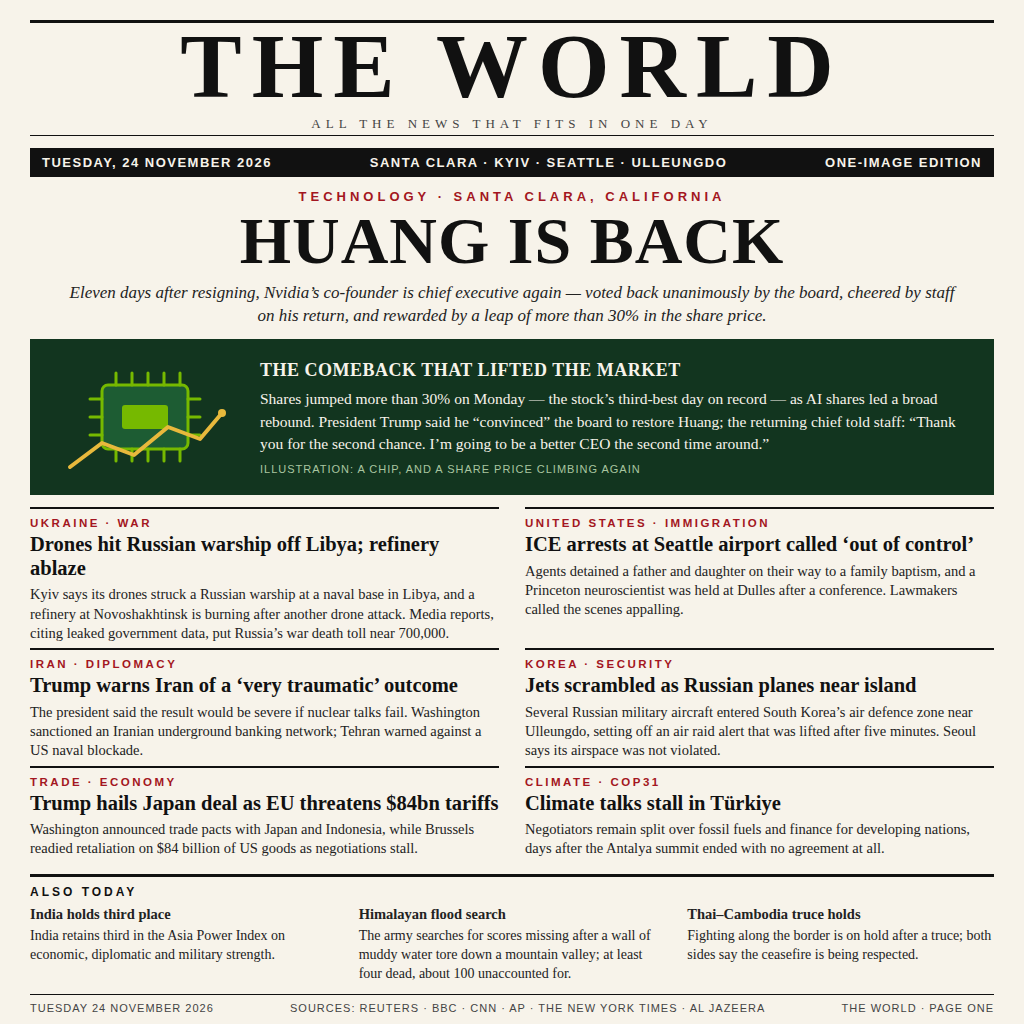
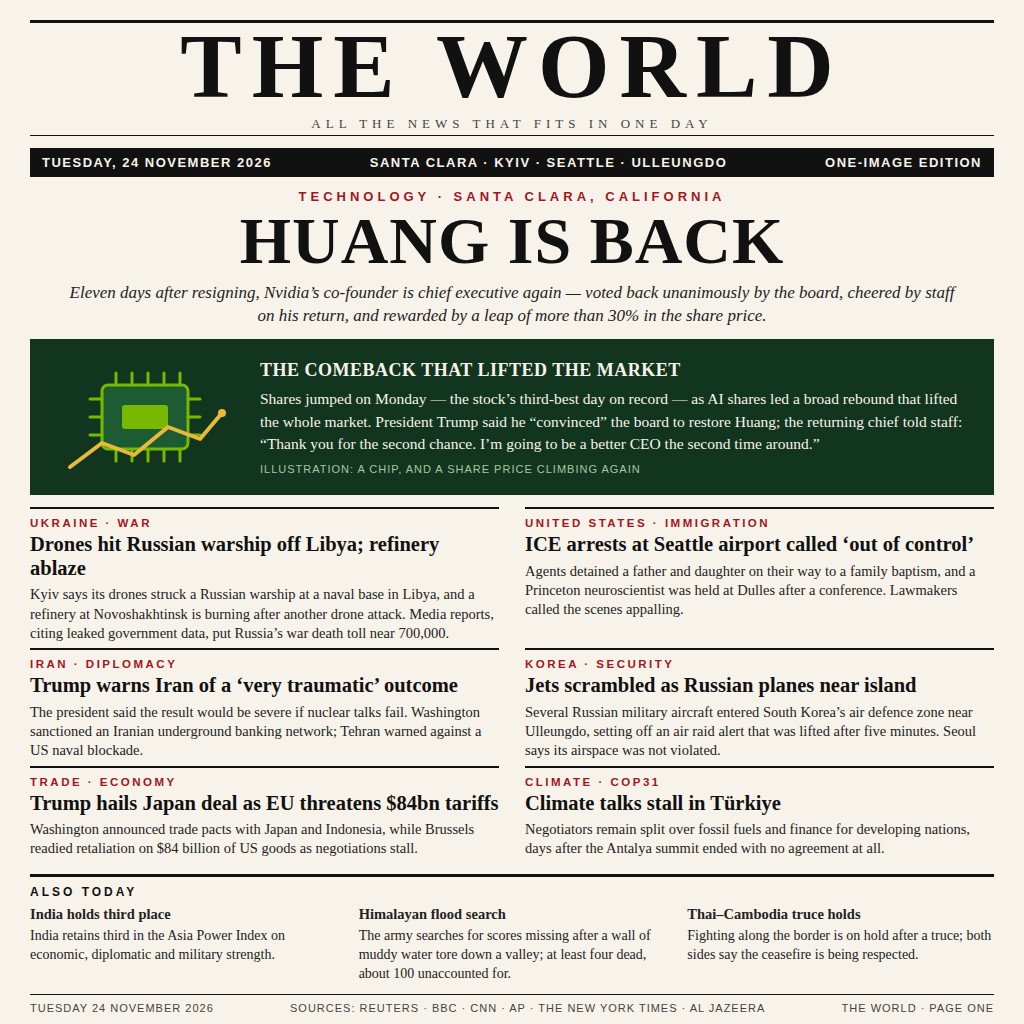
Revision: tighten hero caption (drop repeated 30% figure, add market-wide lift) and even out Also-today row

Changed region(s): [[0.25, 0.375, 0.9375, 0.4375], [0.3438, 0.9062, 0.625, 0.9688]]

diff --git a/layout.html b/layout.html
@@ -130,8 +130,9 @@
   </svg>
   <div class="cap">
     <b>THE COMEBACK THAT LIFTED THE MARKET</b>
-    Shares jumped more than 30% on Monday &mdash; the stock&rsquo;s third-best day
-    on record &mdash; as AI shares led a broad rebound. President Trump said he
+    Shares jumped on Monday &mdash; the stock&rsquo;s third-best day
+    on record &mdash; as AI shares led a broad rebound that lifted the
+    whole market. President Trump said he
     &ldquo;convinced&rdquo; the board to restore Huang; the returning chief told
     staff: &ldquo;Thank you for the second chance. I&rsquo;m going to be a better
     CEO the second time around.&rdquo;
@@ -188,7 +189,7 @@
   <h4>Also today</h4>
   <div class="row">
     <div class="item"><b>India holds third place</b> India retains third in the Asia Power Index on economic, diplomatic and military strength.</div>
-    <div class="item"><b>Himalayan flood search</b> The army searches for scores missing after a wall of muddy water tore down a mountain valley; at least four dead, about 100 unaccounted for.</div>
+    <div class="item"><b>Himalayan flood search</b> The army searches for scores missing after a wall of muddy water tore down a valley; at least four dead, about 100 unaccounted for.</div>
     <div class="item"><b>Thai&ndash;Cambodia truce holds</b> Fighting along the border is on hold after a truce; both sides say the ceasefire is being respected.</div>
   </div>
 </div>
